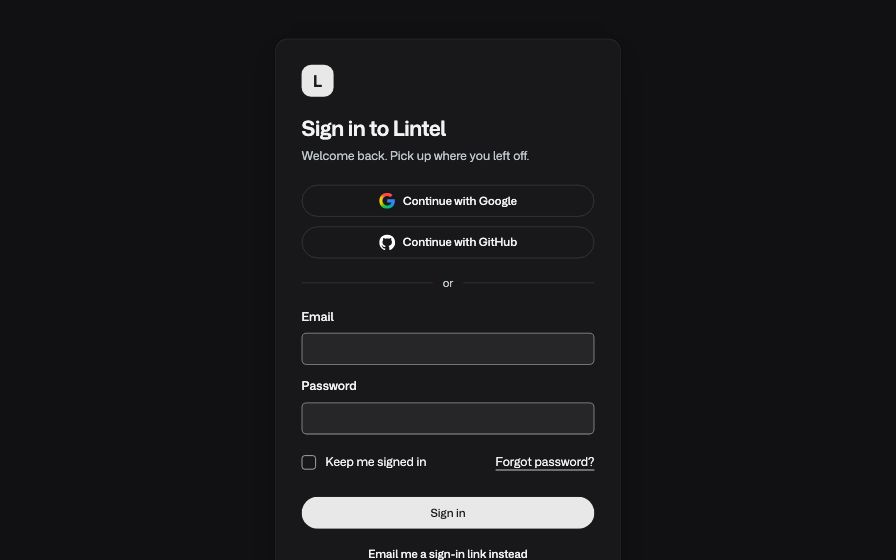
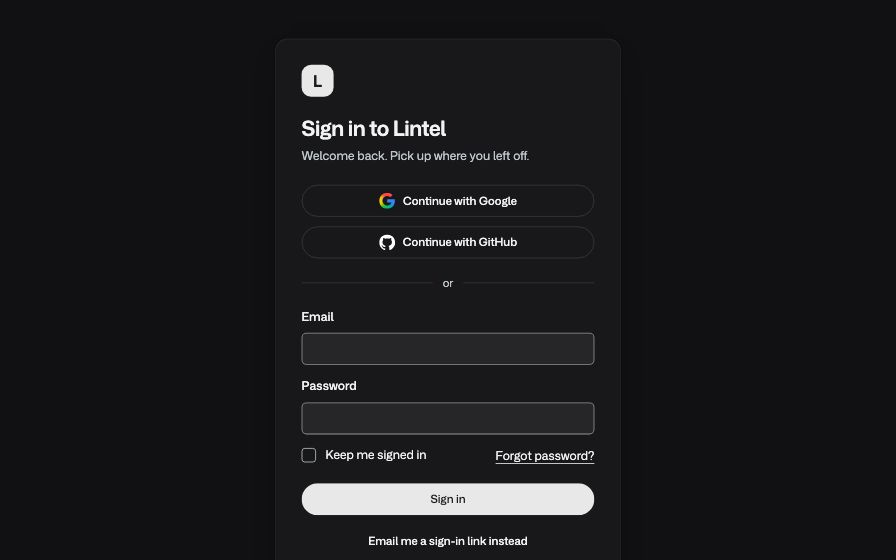
The three lone yes-or-no boxes are Checkboxes
A one-option `Choice multiple` announced a group and returned an array
(UX §2). Now Checkbox, posting or keeping a boolean:
- the screen request form's "Also tell me when it’s ready" (the "Updates"
  group and its Choice-padding CSS go; it still posts notify=1);
- Sign in's "Keep me signed in" (`remember: keep`);
- Application's "Keep my application on file…" (the draft's `keep` is a
  boolean; a draft saved in the old shape restores unchecked).

Visible, for the founders on the preview: Sign in's row loses Choice's
9px padding above and below, so the card is 18px shorter (the row sits
9px closer to Password and to Sign in); Application loses the
"Other roles (optional)" heading over its box (57px shorter). Sign in's
thumbnails are regenerated.

Tests: screen-request "notify is a Checkbox posting a boolean"; screens-ui
"lone yes-or-no boxes are Checkboxes" (sign-in, application). All three
found a fieldset group before.

Changed region(s): [[0.3125, 0.7893, 0.6875, 1.0]]

diff --git a/apps/site/screens/application.tsx b/apps/site/screens/application.tsx
@@ -2,7 +2,7 @@
 // Application form: a DIYA screen. Install: npm i @idyeah/diya lucide-react
 // Next.js: save as app/apply/page.tsx. Vite: save as src/Application.tsx and render it inside your DiyaProvider.
 import { useEffect, useId, useRef, useState, useSyncExternalStore, type ReactNode, type Ref } from 'react'
-import { Alert, Button, Choice, Dialog, FileUpload, Select, TextArea, TextInput, TextLink } from '@idyeah/diya'
+import { Alert, Button, Checkbox, Choice, Dialog, FileUpload, Select, TextArea, TextInput, TextLink } from '@idyeah/diya'
 import { ArrowLeft, Check, CircleCheck, LucideProvider, Plus, X } from 'lucide-react'
 
 // The studio, the role, and where the draft is kept on this device.
@@ -30,7 +30,7 @@ async function sendApplication(application: Draft, resume: File | undefined) {
 type Position = { id: string; company: string; title: string; from: string; to: string }
 type Draft = {
   first: string; last: string; email: string; phone: string; city: string; positions: Position[]
-  portfolio: string; linkedin: string; other: string; heard: string; rating: string; essay: string; keep: string[]
+  portfolio: string; linkedin: string; other: string; heard: string; rating: string; essay: string; keep: boolean
 }
 type View = 'form' | 'review' | 'sent'
 type Section = 'about' | 'experience' | 'portfolio' | 'resume' | 'questions'
@@ -39,7 +39,7 @@ const position = (others: Position[] = []): Position => {
   const top = Math.max(0, ...others.map((p) => Number(p.id.slice(1)) || 0))
   return { id: `p${top + 1}`, company: '', title: '', from: '', to: 'now' }
 }
-const EMPTY: Draft = { first: '', last: '', email: '', phone: '', city: '', positions: [position()], portfolio: '', linkedin: '', other: '', heard: '', rating: '', essay: '', keep: [] }
+const EMPTY: Draft = { first: '', last: '', email: '', phone: '', city: '', positions: [position()], portfolio: '', linkedin: '', other: '', heard: '', rating: '', essay: '', keep: false }
 
 // The last 27 years, newest first, read from the reader's clock. The server can't know it, so it lists none until the page loads.
 const subscribeNever = () => () => {}
@@ -108,7 +108,7 @@ export default function ApplicationScreen() {
       const raw = window.localStorage.getItem(DRAFT_KEY)
       if (raw) {
         const stored = JSON.parse(raw) as { draft: Draft; at: string }
-        setDraft({ ...EMPTY, ...stored.draft })
+        setDraft({ ...EMPTY, ...stored.draft, keep: stored.draft.keep === true })
         setRestored(stored.at)
         setSaved(stored.at)
       }
@@ -307,8 +307,7 @@ export default function ApplicationScreen() {
                     options={RATING} value={draft.rating} error={errors.rating || undefined} onValueChange={(v) => set('rating', v)} />
                   <TextArea className="application-full" id="application-essay" label="Tell us about a design decision you’d defend, and one you’d take back." rows={7} maxLength={1500} showCount
                     helperText="A few paragraphs is plenty. No need to polish." value={draft.essay} error={errors.essay || undefined} onValueChange={(v) => set('essay', v)} />
-                  <Choice multiple label="Other roles (optional)" options={[{ value: 'keep', label: 'Keep my application on file for 12 months for other roles' }]}
-                    value={draft.keep} onValueChange={(v) => set('keep', v)} />
+                  <Checkbox label="Keep my application on file for 12 months for other roles" checked={draft.keep} onCheckedChange={(v) => set('keep', v)} />
                 </Part>
 
                 <div className="application-submit">
@@ -355,7 +354,7 @@ function Review({ titleRef, draft: d, resume, onEdit, onSent }: ReviewProps) {
     resume: [['File', resume ? `${resume.name}, ${Math.max(1, Math.round(resume.size / 1024))} KB` : '']],
     questions: [
       ['Heard from', optional(d.heard)], ['Presenting', RATING.find((r) => r.value === d.rating)?.label ?? ''],
-      ['Your answer', <span className="application-quote">{d.essay.trim()}</span>], ['Other roles', d.keep.length ? 'Keep on file for 12 months' : 'Just this role'],
+      ['Your answer', <span className="application-quote">{d.essay.trim()}</span>], ['Other roles', d.keep ? 'Keep on file for 12 months' : 'Just this role'],
     ],
   }
 

diff --git a/apps/site/screens/sign-in.tsx b/apps/site/screens/sign-in.tsx
@@ -2,7 +2,7 @@
 // Sign in: a DIYA screen. Install: npm i @idyeah/diya lucide-react
 // Next.js: save as app/sign-in/page.tsx. Vite: save as src/SignIn.tsx and render it inside your DiyaProvider.
 import { useEffect, useId, useRef, useState, type ReactNode, type Ref } from 'react'
-import { Alert, Button, Choice, Form, Inline, Stack, TextInput, TextLink } from '@idyeah/diya'
+import { Alert, Button, Checkbox, Form, Inline, Stack, TextInput, TextLink } from '@idyeah/diya'
 import { ArrowLeft, ArrowRight, LucideProvider } from 'lucide-react'
 
 // Your product, and what the demo account shows.
@@ -67,7 +67,7 @@ export default function SignInScreen() {
 
 function SignInStep({ email, setEmail, go, titleRef, onEmailed }: StepProps & { onEmailed: (kind: Sent) => void }) {
   const [password, setPassword] = useState('')
-  const [keep, setKeep] = useState<string[]>([])
+  const [keep, setKeep] = useState(false)
   const [errors, setErrors] = useState<{ email?: string; password?: string }>({})
   const [failed, setFailed] = useState(false)
   const [busy, setBusy] = useState<'password' | 'link' | 'google' | 'github'>()
@@ -81,7 +81,7 @@ function SignInStep({ email, setEmail, go, titleRef, onEmailed }: StepProps & { 
     setFailed(false)
     if (found.email || found.password) return focus(found.email ? emailField.current : passwordField.current)
     setBusy('password')
-    const ok = await api('/session', { email, password, remember: keep.length > 0 })
+    const ok = await api('/session', { email, password, remember: keep })
     if (ok) return go('code')
     setBusy(undefined)
     setFailed(true)
@@ -137,7 +137,7 @@ function SignInStep({ email, setEmail, go, titleRef, onEmailed }: StepProps & { 
         <TextInput ref={passwordField} label="Password" type="password" autoComplete="current-password" value={password} error={errors.password}
           onValueChange={(value) => { setPassword(value); setErrors({ ...errors, password: undefined }) }} />
         <Inline justify="between" gap={3}>
-          <Choice multiple hideLabel label="Session" options={[{ value: 'keep', label: 'Keep me signed in' }]} value={keep} onValueChange={setKeep} />
+          <Checkbox label="Keep me signed in" checked={keep} onCheckedChange={setKeep} />
           <LinkButton onClick={() => go('forgot')}>Forgot password?</LinkButton>
         </Inline>
       </Stack>

diff --git a/apps/site/tests/screens-ui.test.tsx b/apps/site/tests/screens-ui.test.tsx
@@ -1,7 +1,7 @@
 import { readFileSync } from 'node:fs'
 import { join } from 'node:path'
 import { afterEach, beforeEach, describe, expect, it, vi } from 'vitest'
-import { act, render, screen, waitFor, within } from '@testing-library/react'
+import { act, fireEvent, render, screen, waitFor, within } from '@testing-library/react'
 import userEvent from '@testing-library/user-event'
 import { useEffect, useState, type ComponentProps, type ComponentType, type ReactNode } from 'react'
 import { DiyaProvider, toast } from '@idyeah/diya'
@@ -547,5 +547,23 @@ describe('each toast Screen raises its toast', () => {
     await waitFor(() => expect(screen.queryByRole('region', { name: 'Notifications (F8)' })).toBeNull(), LONG)
     expect((screen.getByRole('checkbox', { name }) as HTMLInputElement).checked).toBe(false)
     expect(screen.getByRole('status').textContent).toBe(`“${name}” is back in To do.`)
+  })
+})
+
+// frontend.md step 11: the lone yes-or-no boxes on Sign in and Application are Checkboxes, not one-option groups.
+describe('lone yes-or-no boxes are Checkboxes', () => {
+  it.each([
+    ['sign-in', 'Keep me signed in'],
+    ['application', 'Keep my application on file for 12 months for other roles'],
+  ])('%s: "%s"', async (id, label) => {
+    const { default: Screen } = await import(`../screens/${id}.tsx`)
+    render(<DiyaProvider theme="light"><Screen /></DiyaProvider>)
+    await act(async () => {})
+    const box = screen.getByRole('checkbox', { name: label }) as HTMLInputElement
+    expect(box.className).toBe('diya-checkbox')
+    expect(box.closest('fieldset')).toBeNull()
+    expect(box.checked).toBe(false)
+    fireEvent.click(box)
+    expect(box.checked).toBe(true)
   })
 })

diff --git a/apps/site/components/screens/ScreenRequest.tsx b/apps/site/components/screens/ScreenRequest.tsx
@@ -1,6 +1,6 @@
 'use client'
 import { useEffect, useRef, useState, type FormEvent } from 'react'
-import { Button, Choice, DiyaProvider, FileUpload, TextArea, TextInput, TextLink, type FileRejection } from '@idyeah/diya'
+import { Button, Checkbox, DiyaProvider, FileUpload, TextArea, TextInput, TextLink, type FileRejection } from '@idyeah/diya'
 import { useAppearance } from '../../app/Appearance'
 import { IMAGE_ACCEPT, ORIGINAL_IMAGE_MAX_BYTES, TEXT_COUNTER_FROM, TEXT_MAX, TEXT_MIN } from '../../lib/screen-requests/config'
 import { cleanText, textLength } from '../../lib/screen-requests/text'
@@ -40,7 +40,6 @@ export const REQUEST_COPY = {
   emailHelp: 'So I can reply.',
   emailEmpty: 'Add your email so I can reply.',
   emailMalformed: 'That doesn’t look like an email yet. Check the @ and the part after it.',
-  notifyGroup: 'Updates',
   notify: 'Also tell me when it’s ready',
   privacy: 'I’ll use this only to reply about your request.',
   submit: 'Send request',
@@ -425,15 +424,7 @@ function RequestForm({ want, onClosed }: { want: string | null; onClosed: () => 
             }}
           />
 
-          <Choice
-            multiple
-            hideLabel
-            className="screens-request-notify"
-            label={COPY.notifyGroup}
-            options={[{ value: 'notify', label: COPY.notify }]}
-            value={notify ? ['notify'] : []}
-            onValueChange={(values) => setNotify(values.includes('notify'))}
-          />
+          <Checkbox className="screens-request-notify" label={COPY.notify} checked={notify} onCheckedChange={setNotify} />
 
           <div className="screens-request-honeypot" aria-hidden="true">
             <label>

diff --git a/apps/site/tests/screen-request.test.tsx b/apps/site/tests/screen-request.test.tsx
@@ -145,6 +145,21 @@ describe('Screen request form', () => {
     })
   })
 
+  // frontend.md step 11: a lone yes or no is a Checkbox, not a one-option group (UX §2).
+  it('notify is a Checkbox posting a boolean', async () => {
+    await mount()
+    const notify = screen.getByRole('checkbox', { name: COPY.notify }) as HTMLInputElement
+    expect(notify.className).toBe('diya-checkbox')
+    expect(notify.closest('fieldset')).toBeNull()
+    expect(screen.queryByRole('group', { name: 'Updates' })).toBeNull()
+    expect(screen.getAllByRole('checkbox')).toHaveLength(1)
+    fill()
+    fireEvent.click(notify)
+    expect(notify.checked).toBe(true)
+    await send()
+    expect(posts[0].getAll('notify')).toEqual(['1'])
+  })
+
   it('leaves the choice out when it isn’t ticked', async () => {
     await mount()
     fill()

diff --git a/apps/site/components/screens/ScreenRequest.css b/apps/site/components/screens/ScreenRequest.css
@@ -194,10 +194,6 @@
   }
 }
 
-.screens-request-notify.diya-choice .diya-choice-option {
-  padding: 2px 0;
-}
-
 /* Off-screen, out of the tab order and hidden from assistive tech: only bots fill it. */
 .screens-request-honeypot {
   position: absolute;
